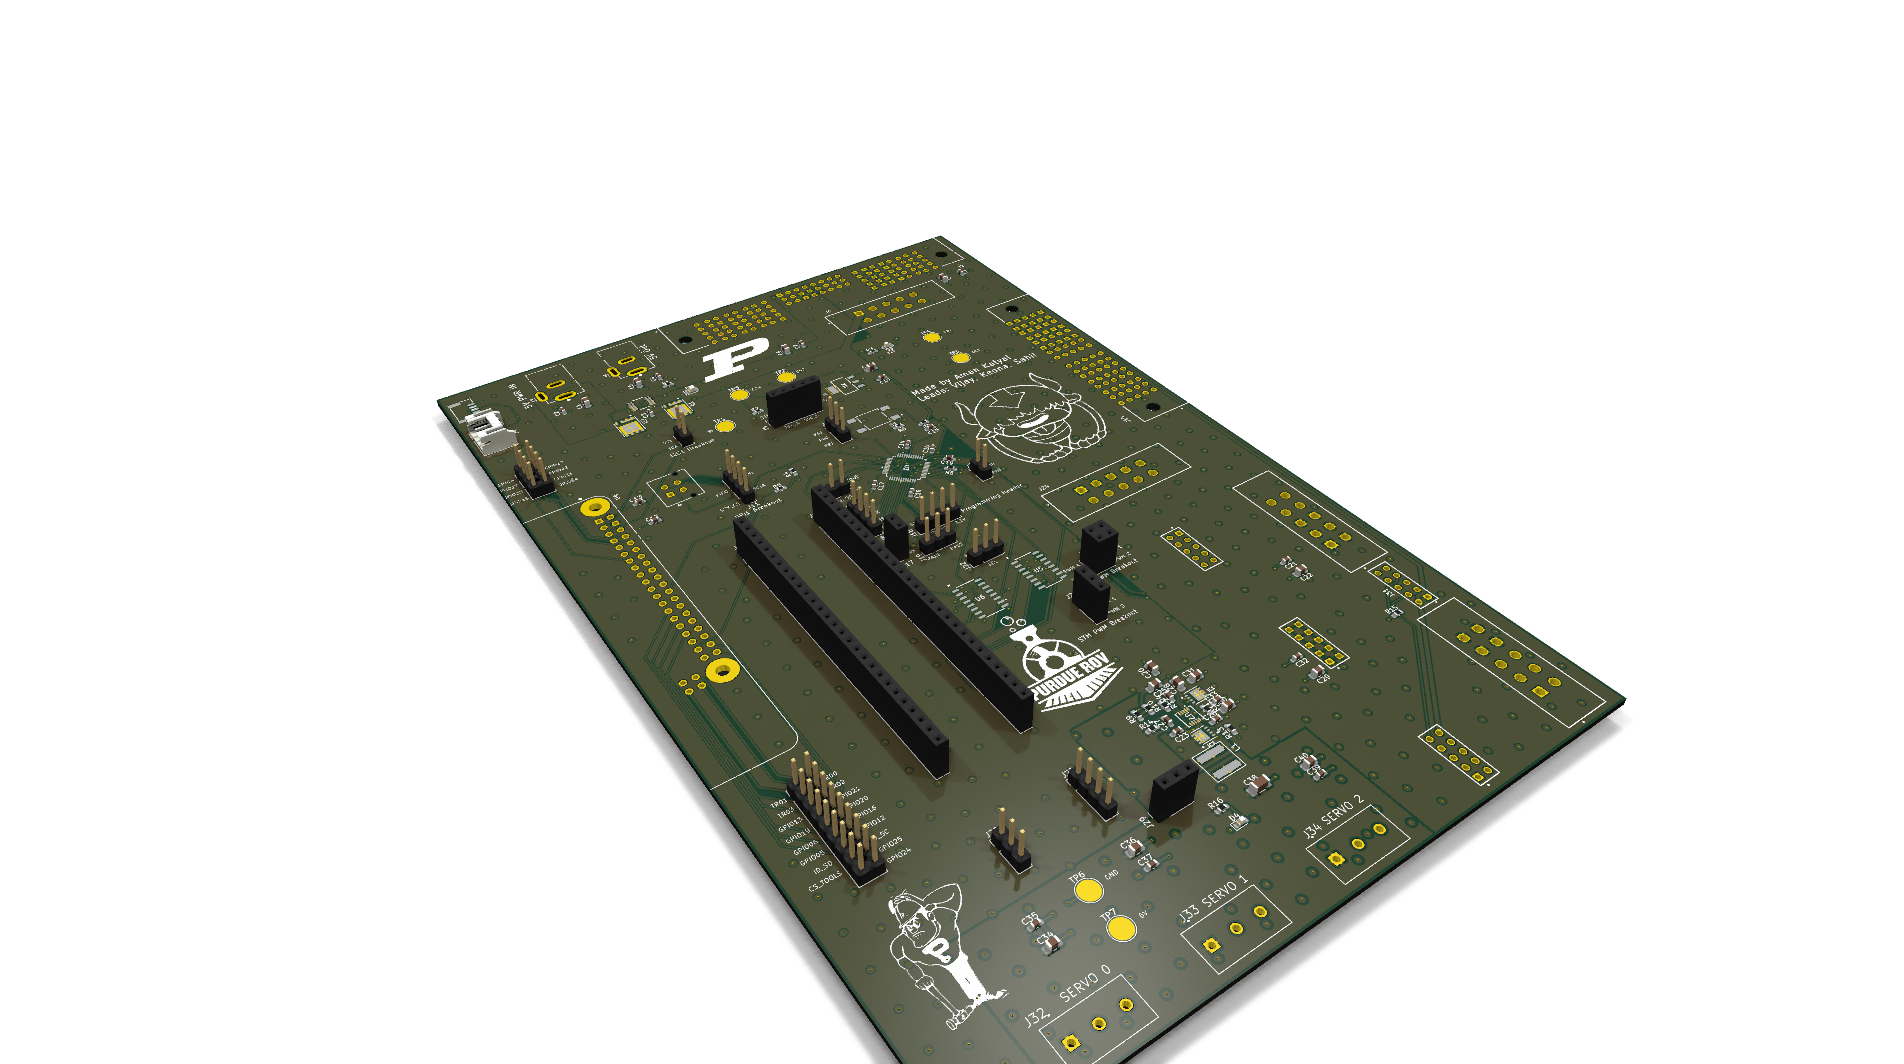
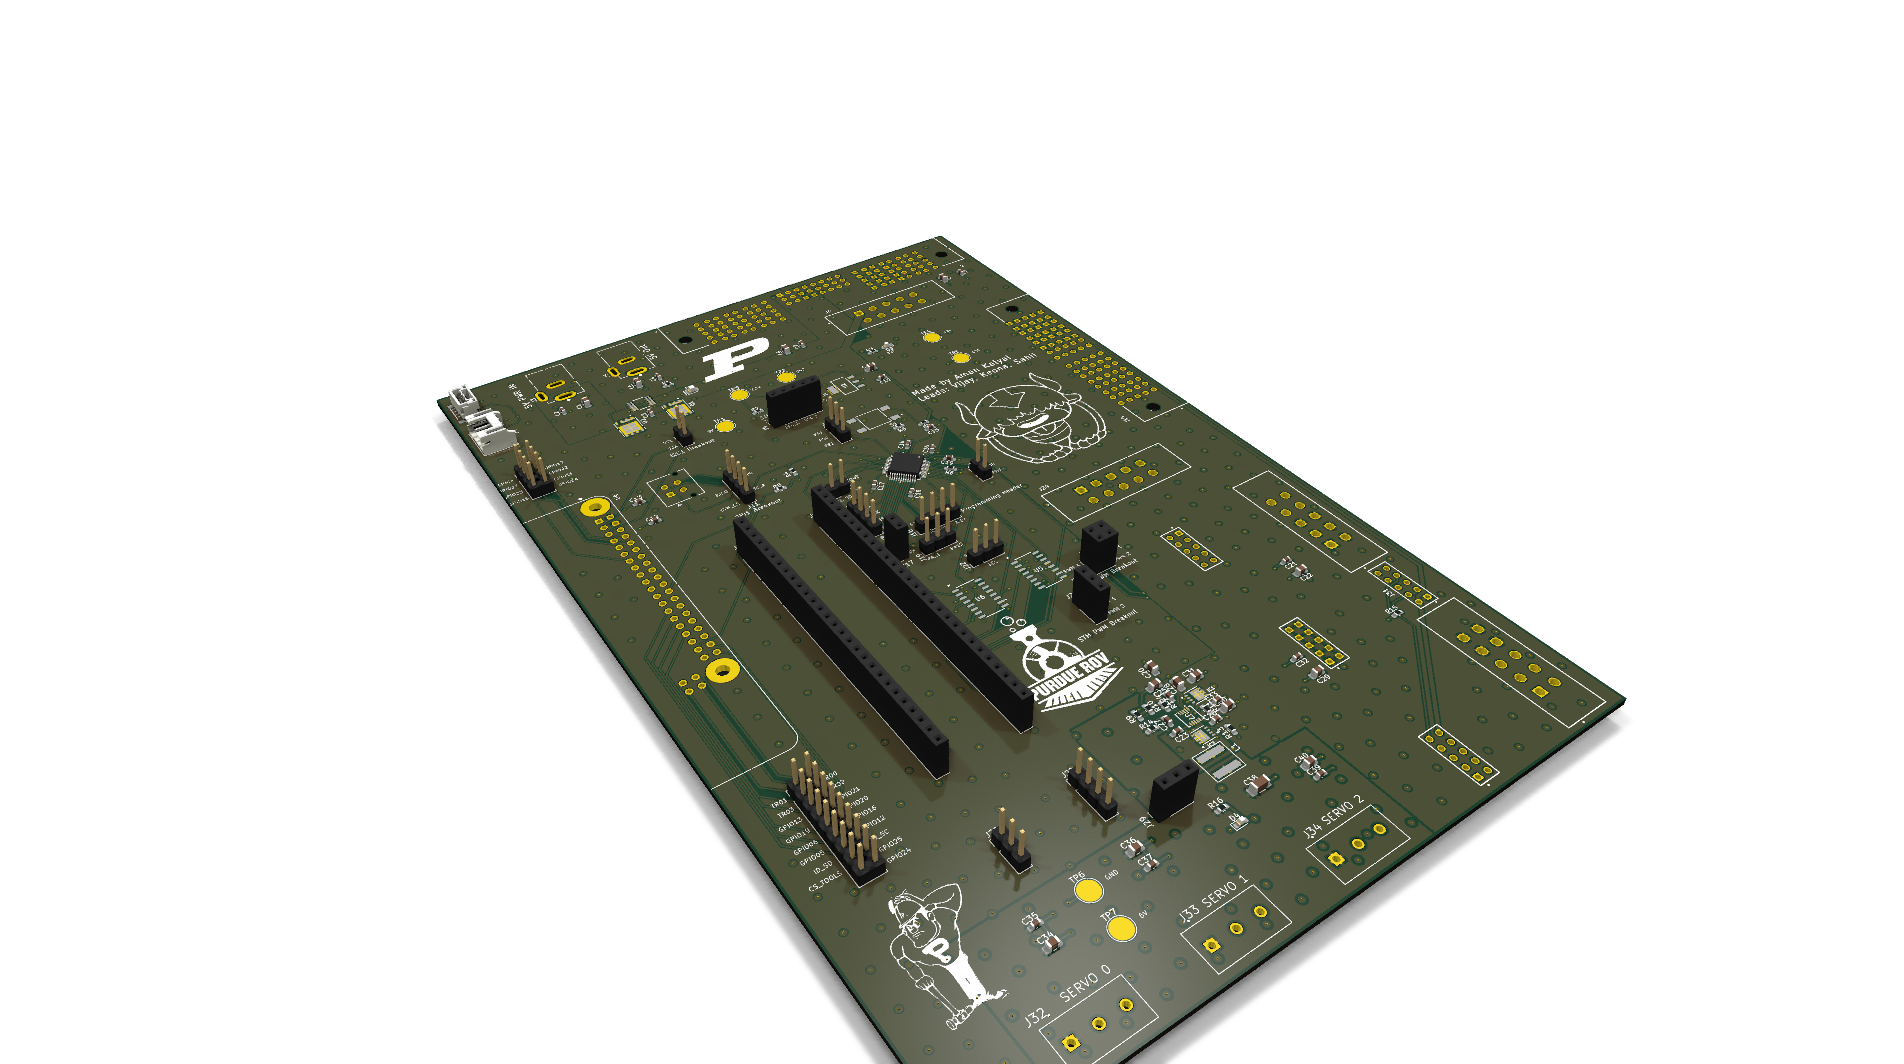
hil renders: fully populated board, top-down featured

Changed region(s): [[0.4648, 0.4032, 0.4958, 0.4652], [0.2169, 0.3722, 0.2789, 0.4032]]

diff --git a/rov-hil-testbench.md b/rov-hil-testbench.md
@@ -5,7 +5,7 @@ permalink: /projects/rov-hil-testbench
 role: "Embedded Firmware & Electrical"
 description: "Hardware-in-the-Loop (HIL) carrier board and testbench for MATE ROV, enabling firmware development and real-time comparison of STM32/RP2350."
 technologies: ["STM32", "RP2350B", "Raspberry Pi 5", "SPI/I2C/UART", "FreeRTOS", "KiCad"]
-image: "/assets/images/rov_hil_render_iso.png"
+image: "/assets/images/rov_hil_render_top.png"
 printable: true
 order: 1
 ---
